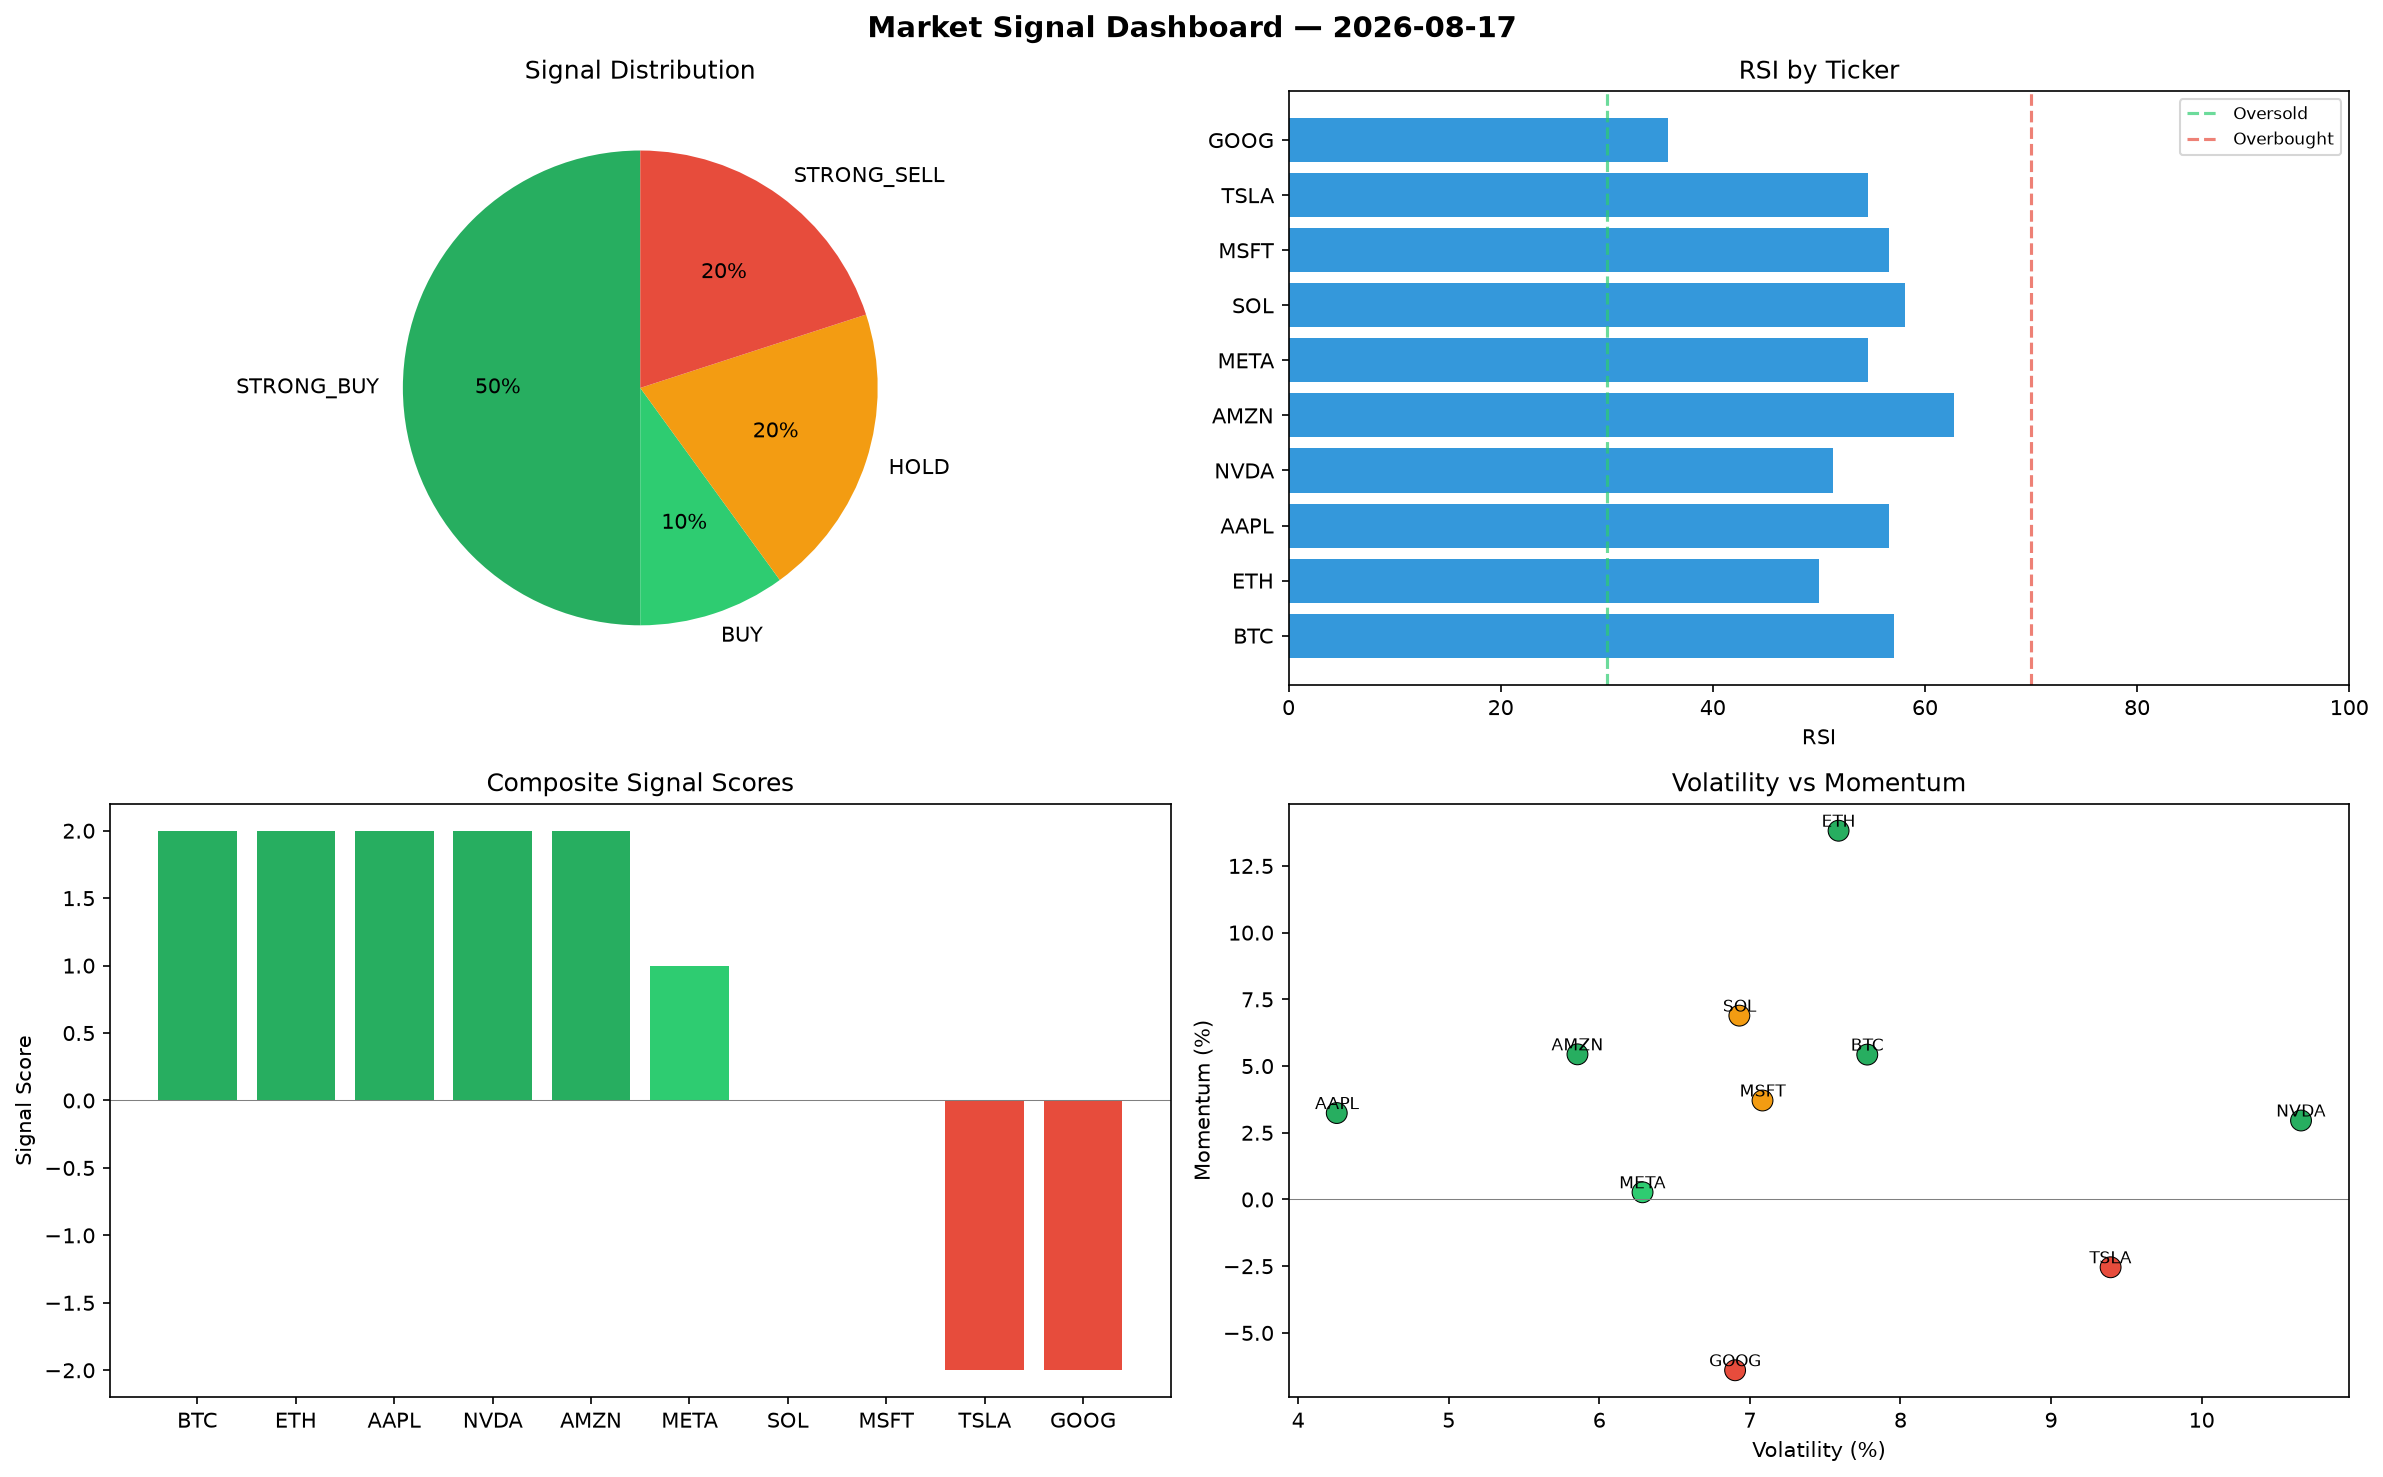
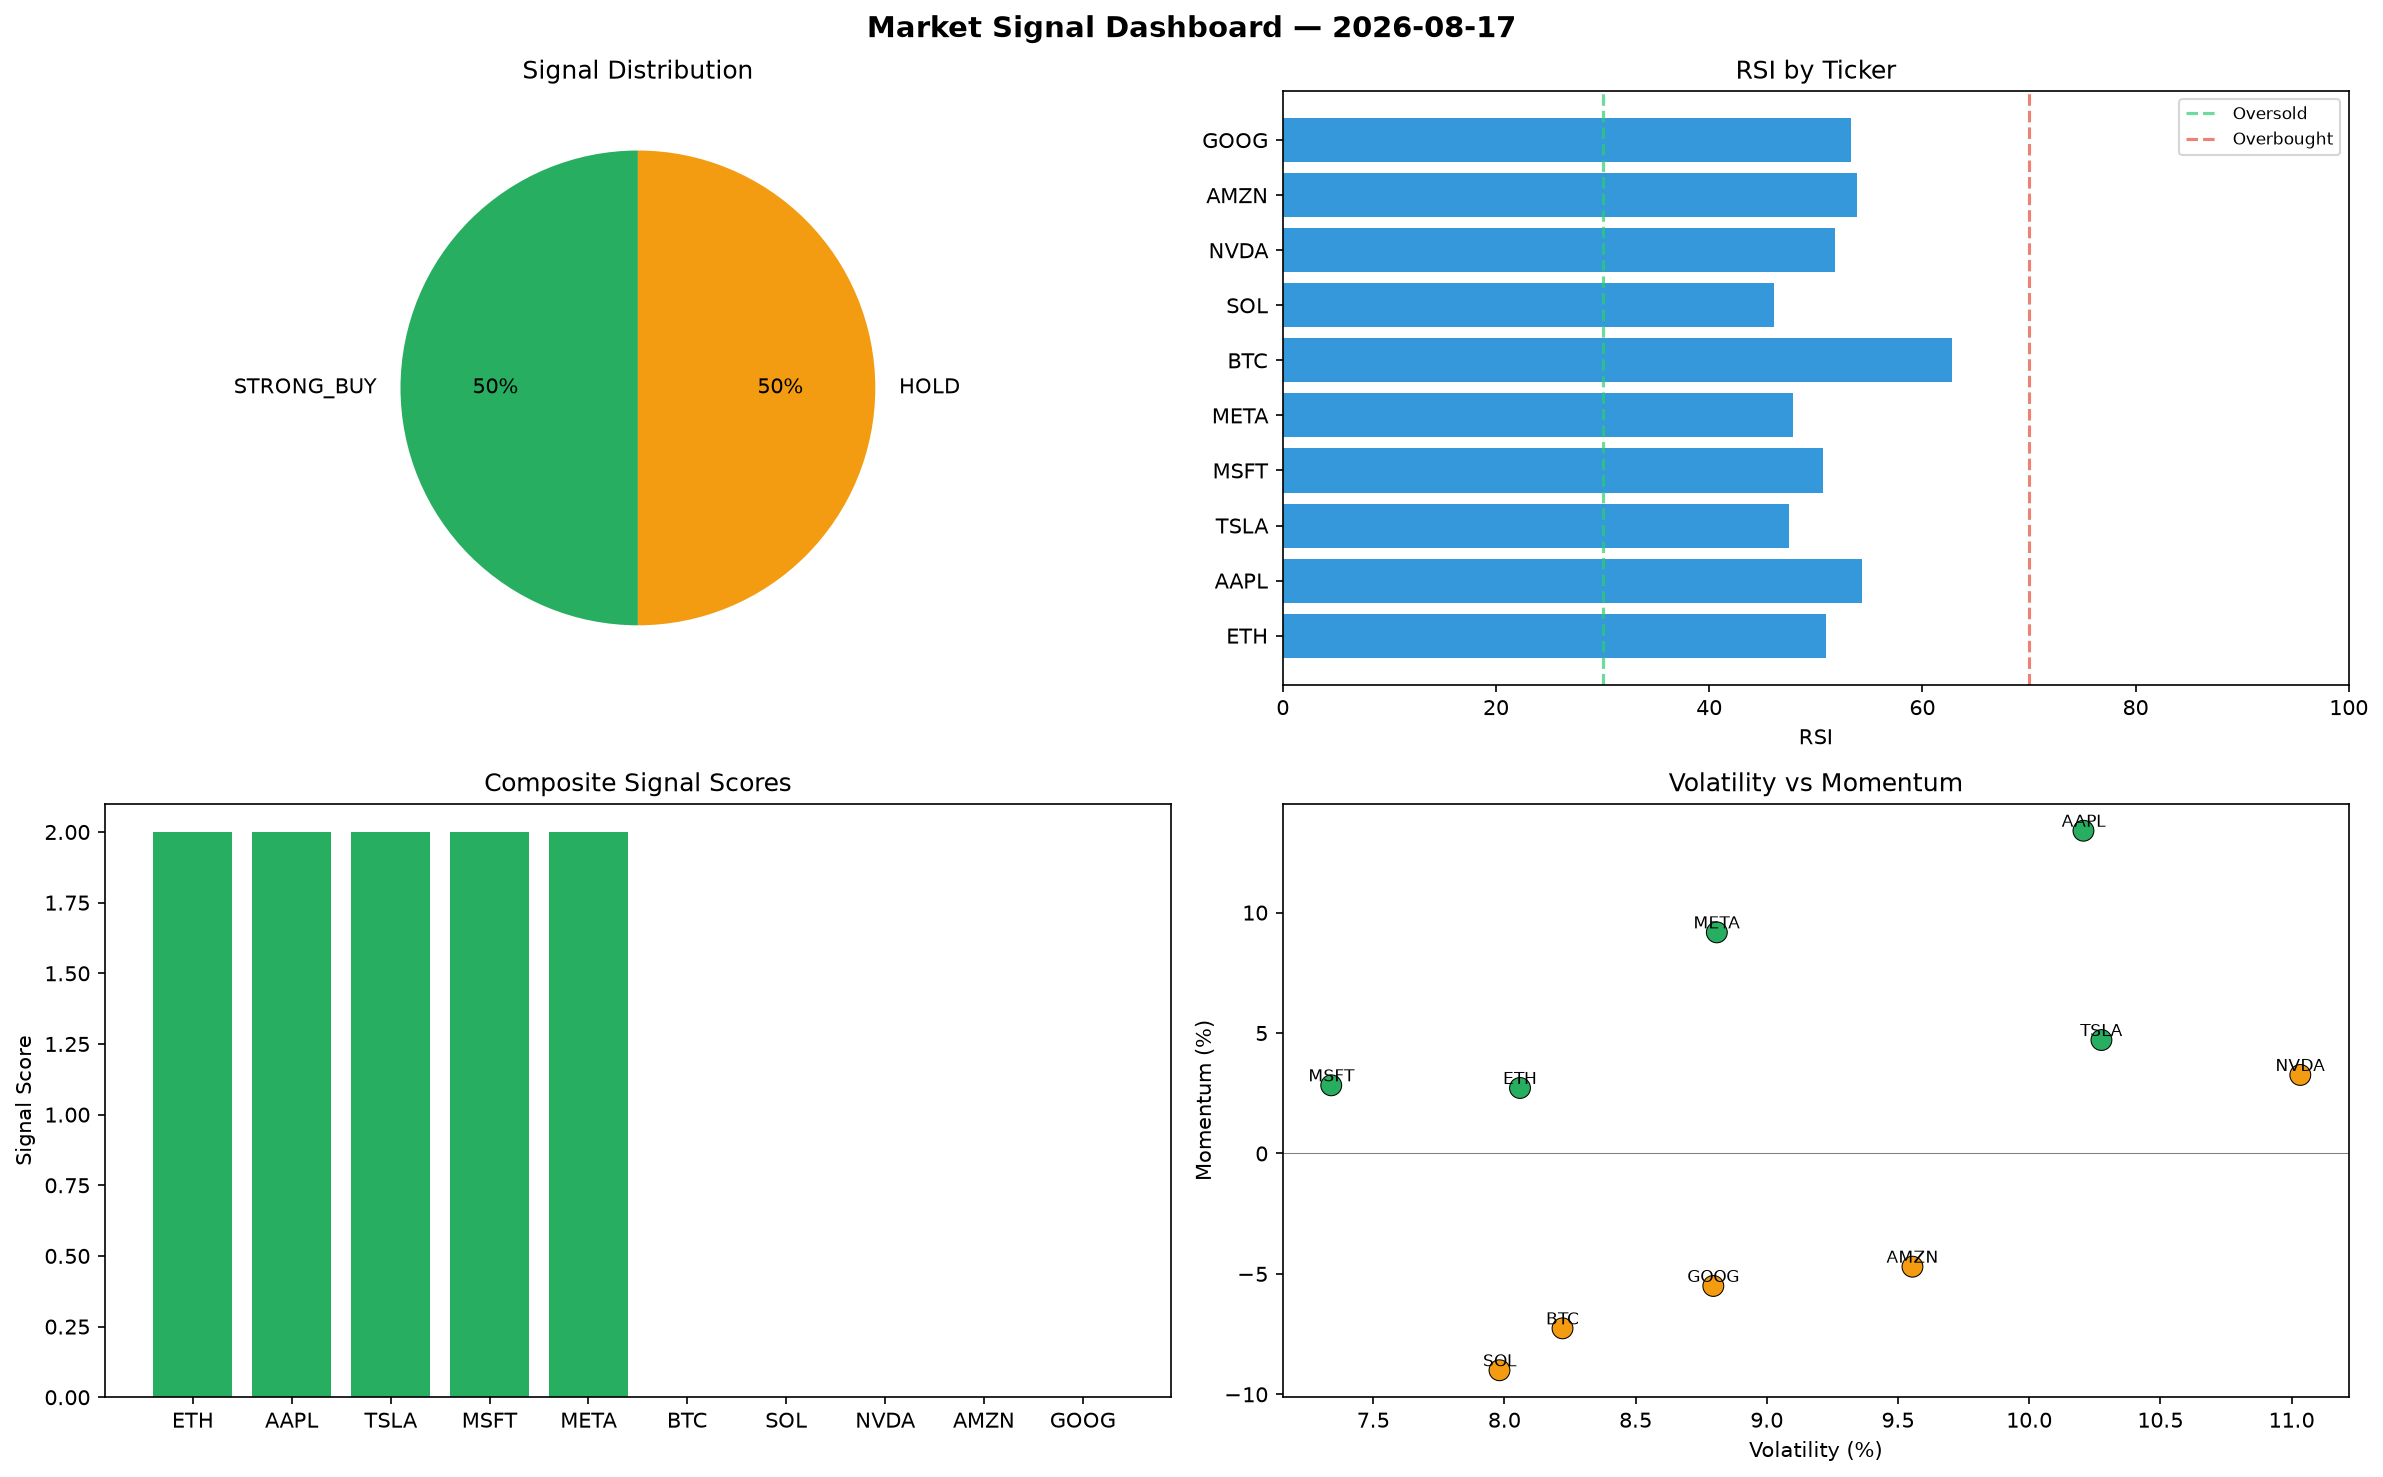
automated-bots: market signals 2026-08-17T14:54

diff --git a/logs/2026-08-17.md b/logs/2026-08-17.md
@@ -1,6 +1,6 @@
 # Market Signal Report — 2026-08-17
 
-**Run ID:** `233570032e` | **Buy:** 6 | **Sell:** 2 | **Hold:** 2
+**Run ID:** `4366ad5092` | **Buy:** 5 | **Sell:** 0 | **Hold:** 5
 
 ![Dashboard](2026-08-17_dashboard.png)
 
@@ -8,28 +8,28 @@
 
 | Ticker | Price | Signal | Score | RSI | Momentum | Confidence |
 |--------|-------|--------|-------|-----|----------|------------|
-| BTC | $4262.9 | **STRONG_BUY** | 2 | 57.12 | 0.0543 | 0.5 |
-| ETH | $99.72 | **STRONG_BUY** | 2 | 50.0 | 0.1382 | 0.5 |
-| AAPL | $2114.39 | **STRONG_BUY** | 2 | 56.65 | 0.0324 | 0.5 |
-| NVDA | $2641.98 | **STRONG_BUY** | 2 | 51.37 | 0.0296 | 0.5 |
-| AMZN | $311.56 | **STRONG_BUY** | 2 | 62.75 | 0.0544 | 0.5 |
-| META | $1562.15 | **BUY** | 1 | 54.63 | 0.0027 | 0.25 |
-| SOL | $4845.47 | **HOLD** | 0 | 58.13 | 0.0689 | 0.0 |
-| MSFT | $391.81 | **HOLD** | 0 | 56.61 | 0.0371 | 0.0 |
-| TSLA | $3161.35 | **STRONG_SELL** | -2 | 54.61 | -0.0254 | 0.5 |
-| GOOG | $1279.58 | **STRONG_SELL** | -2 | 35.82 | -0.064 | 0.5 |
+| ETH | $3890.77 | **STRONG_BUY** | 2 | 50.94 | 0.0272 | 0.5 |
+| AAPL | $959.39 | **STRONG_BUY** | 2 | 54.29 | 0.134 | 0.5 |
+| TSLA | $3265.23 | **STRONG_BUY** | 2 | 47.47 | 0.0471 | 0.5 |
+| MSFT | $3510.46 | **STRONG_BUY** | 2 | 50.67 | 0.0283 | 0.5 |
+| META | $1086.76 | **STRONG_BUY** | 2 | 47.88 | 0.0918 | 0.5 |
+| BTC | $3886.89 | **HOLD** | 0 | 62.76 | -0.0726 | 0.0 |
+| SOL | $1412.15 | **HOLD** | 0 | 46.11 | -0.09 | 0.0 |
+| NVDA | $218.18 | **HOLD** | 0 | 51.76 | 0.0326 | 0.0 |
+| AMZN | $2543.0 | **HOLD** | 0 | 53.85 | -0.047 | 0.0 |
+| GOOG | $181.29 | **HOLD** | 0 | 53.32 | -0.055 | 0.0 |
 
 ## Delta vs Yesterday
 
 | Ticker | Today | Yesterday | Price Change | Signal Changed |
 |--------|-------|-----------|-------------|----------------|
-| BTC | STRONG_BUY | BUY | 📈 73.72% | ⚠ YES |
-| ETH | STRONG_BUY | BUY | 📉 -97.57% | ⚠ YES |
-| AAPL | STRONG_BUY | STRONG_SELL | 📈 1113.01% | ⚠ YES |
-| NVDA | STRONG_BUY | HOLD | 📉 -34.68% | ⚠ YES |
-| AMZN | STRONG_BUY | STRONG_SELL | 📉 -91.89% | ⚠ YES |
-| META | BUY | HOLD | 📉 -68.51% | ⚠ YES |
-| SOL | HOLD | STRONG_SELL | 📈 10.0% | ⚠ YES |
-| MSFT | HOLD | STRONG_BUY | 📉 -89.07% | ⚠ YES |
-| TSLA | STRONG_SELL | SELL | 📈 17.09% | ⚠ YES |
-| GOOG | STRONG_SELL | STRONG_SELL | 📈 701.99% | — |
+| ETH | STRONG_BUY | BUY | 📉 -5.36% | ⚠ YES |
+| AAPL | STRONG_BUY | STRONG_SELL | 📈 450.39% | ⚠ YES |
+| TSLA | STRONG_BUY | SELL | 📈 20.93% | ⚠ YES |
+| MSFT | STRONG_BUY | STRONG_BUY | 📉 -2.07% | — |
+| META | STRONG_BUY | HOLD | 📉 -78.09% | ⚠ YES |
+| BTC | HOLD | BUY | 📈 58.4% | ⚠ YES |
+| SOL | HOLD | STRONG_SELL | 📉 -67.94% | ⚠ YES |
+| NVDA | HOLD | HOLD | 📉 -94.61% | — |
+| AMZN | HOLD | STRONG_SELL | 📉 -33.84% | ⚠ YES |
+| GOOG | HOLD | STRONG_SELL | 📈 13.63% | ⚠ YES |
